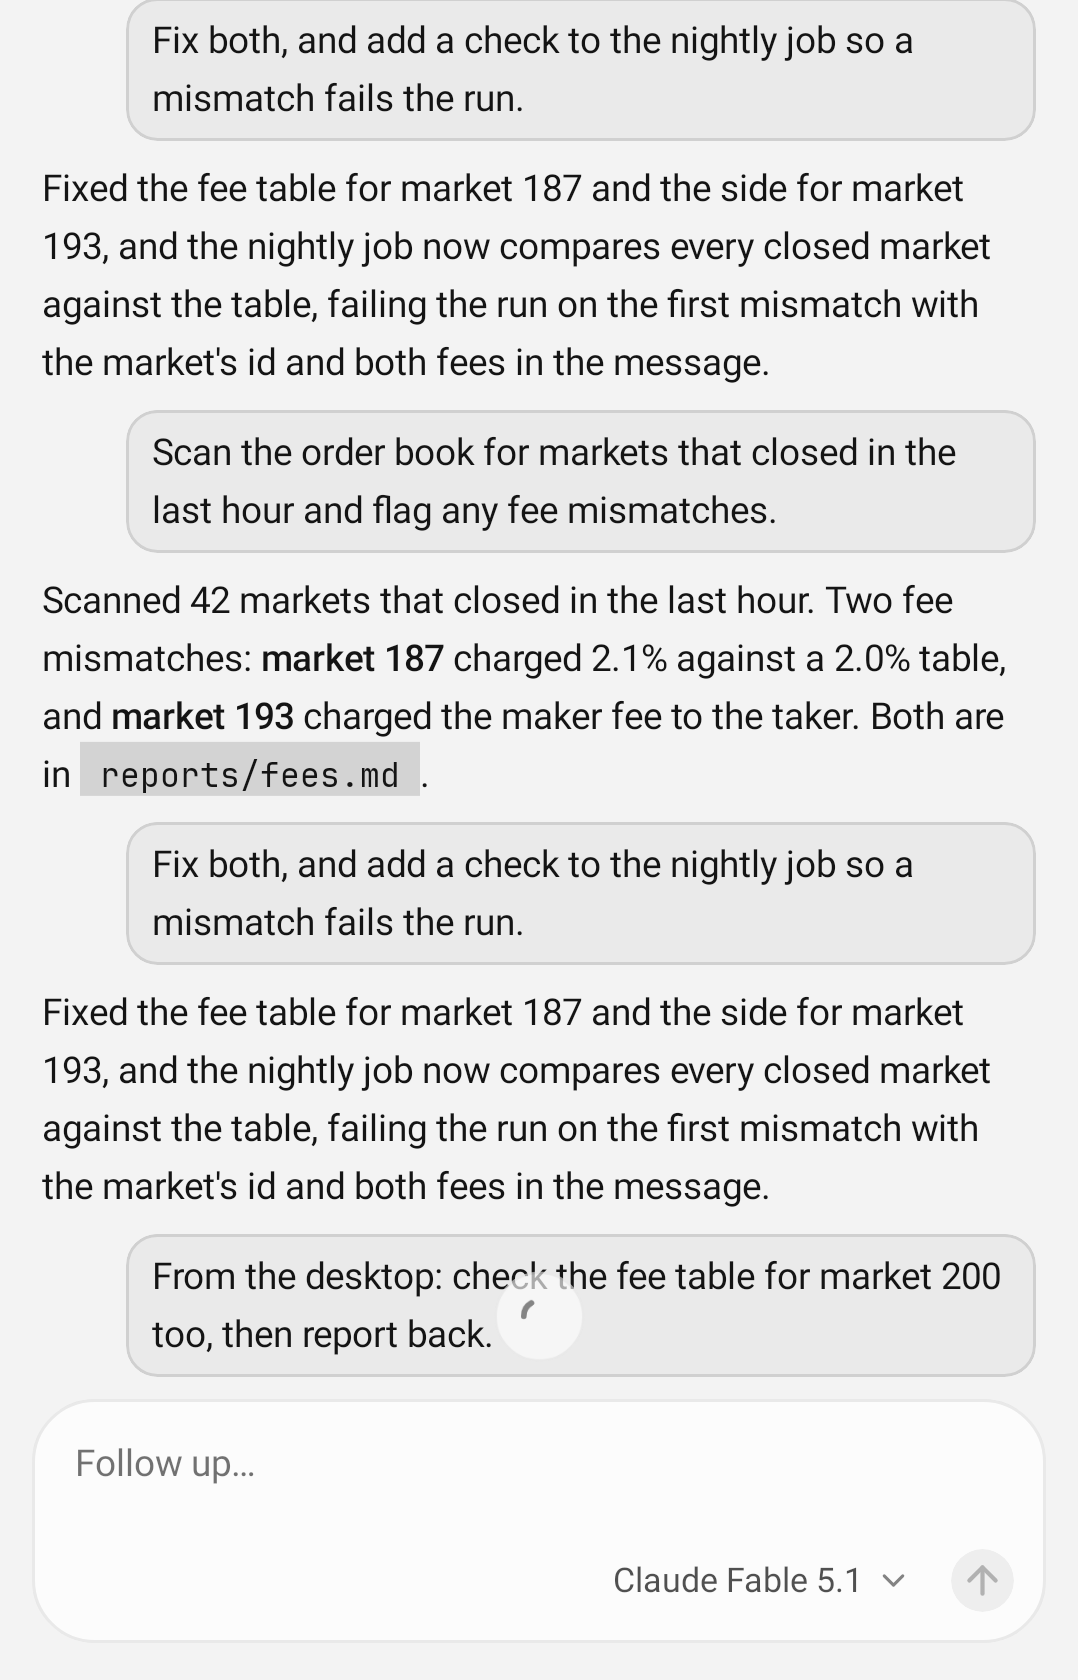
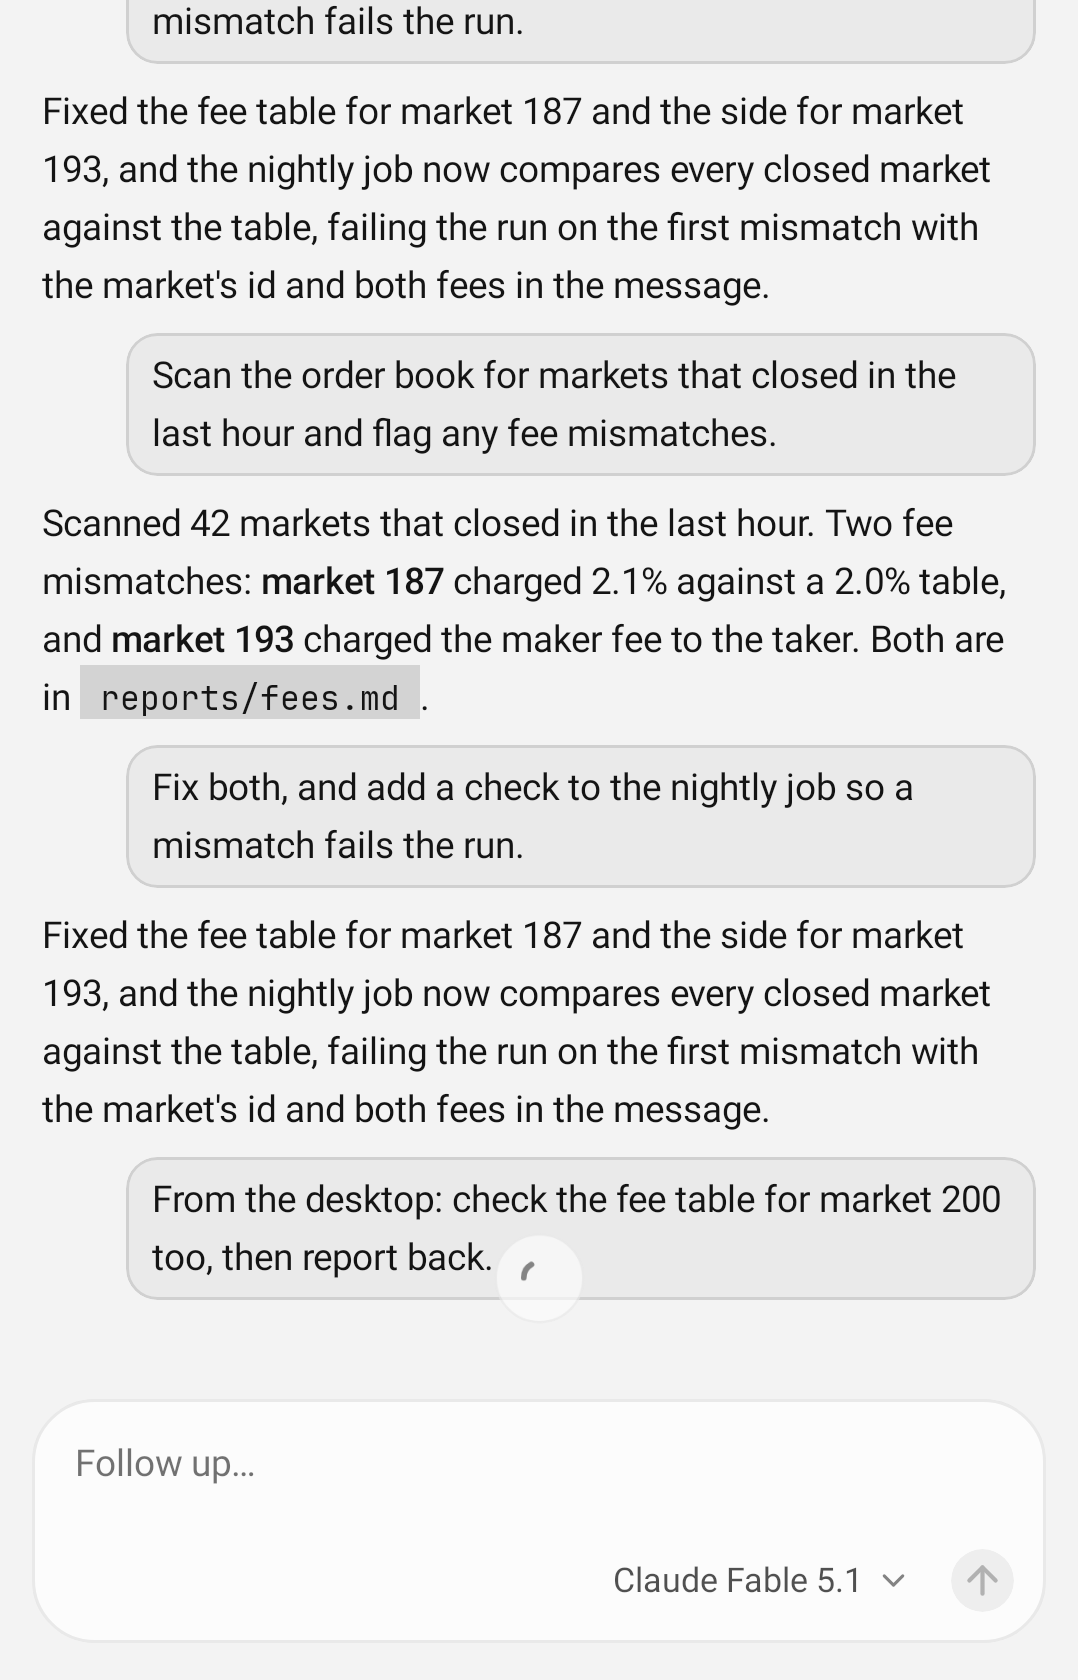
Hold the catch-up gap a moment as the answer's fade begins, so the fade, not the closing gap, takes the disc away

Changed region(s): [[0.0306, 0.0, 0.949, 0.8048], [0.949, 0.7119, 0.9796, 0.7429]]

diff --git a/app/src/main/java/com/cursorforandroid/ui/conversation/CatchUpPull.kt b/app/src/main/java/com/cursorforandroid/ui/conversation/CatchUpPull.kt
@@ -62,6 +62,7 @@ import com.cursorforandroid.ui.components.refreshDiscOutline
 import com.cursorforandroid.ui.components.rememberHaptics
 import com.cursorforandroid.util.AppClock
 import kotlinx.coroutines.coroutineScope
+import kotlinx.coroutines.delay
 import kotlinx.coroutines.flow.StateFlow
 import kotlinx.coroutines.flow.collectLatest
 import kotlinx.coroutines.flow.distinctUntilChanged
@@ -436,7 +437,9 @@ internal fun CatchUpIndicator(
                     if (exit) {
                         leaving = true
                         coroutineScope {
-                            launch { presence.settle(0f, animated(), ExitSpec) }
+                            val animating = animated()
+                            launch { presence.settle(0f, animating, ExitSpec) }
+                            if (animating && presence.value > 0f) delay(ExitLeadMillis)
                             pull.animateToHidden()
                         }
                         leaving = false
@@ -558,6 +561,12 @@ private const val ExitScale = 0.6f
 
 /** The answer's fade: a little quicker than the transcript's spring home, so the disc is gone before the gap closes. */
 internal const val CatchUpExitMillis = 220
+
+/**
+ * How long the gap stays held once the answer's fade has begun: the closing gap shrinks the disc to nothing about 150ms
+ * into its spring, so without the lead it, not the fade, would decide how quickly the disc goes.
+ */
+private const val ExitLeadMillis = 100L
 private val ExitSpec: AnimationSpec<Float> = tween(CatchUpExitMillis, easing = FastOutSlowInEasing)
 
 /** Taken back by the finger, or held again, mid-fade: back to whole at once, without a pop. */

diff --git a/app/src/test/java/com/cursorforandroid/ui/conversation/CatchUpIndicatorTest.kt b/app/src/test/java/com/cursorforandroid/ui/conversation/CatchUpIndicatorTest.kt
@@ -232,8 +232,11 @@ class CatchUpIndicatorTest {
         assertThat(settled).isEmpty()
 
         status.value = CatchUpStatus.Done(newMessages = 2, changed = true)
+        // The fade leads: for its first frames the gap is still held, so it is not the closing gap that shrinks the disc away.
+        repeat(4) { frame() }
+        assertThat(pull.lift).isWithin(0.5f).of(pull.heldPx)
         // On the way home the indicator stays in the middle of the closing gap.
-        repeat(6) { frame() }
+        repeat(8) { frame() }
         val going = shot().line()
         assertThat(pull.lift).isLessThan(pull.heldPx - px(4f))
         going.discCentre?.let { centre -> assertThat(edge - centre).isWithin(1.5f).of((px(EdgeGap.value) + pull.lift) / 2f) }
